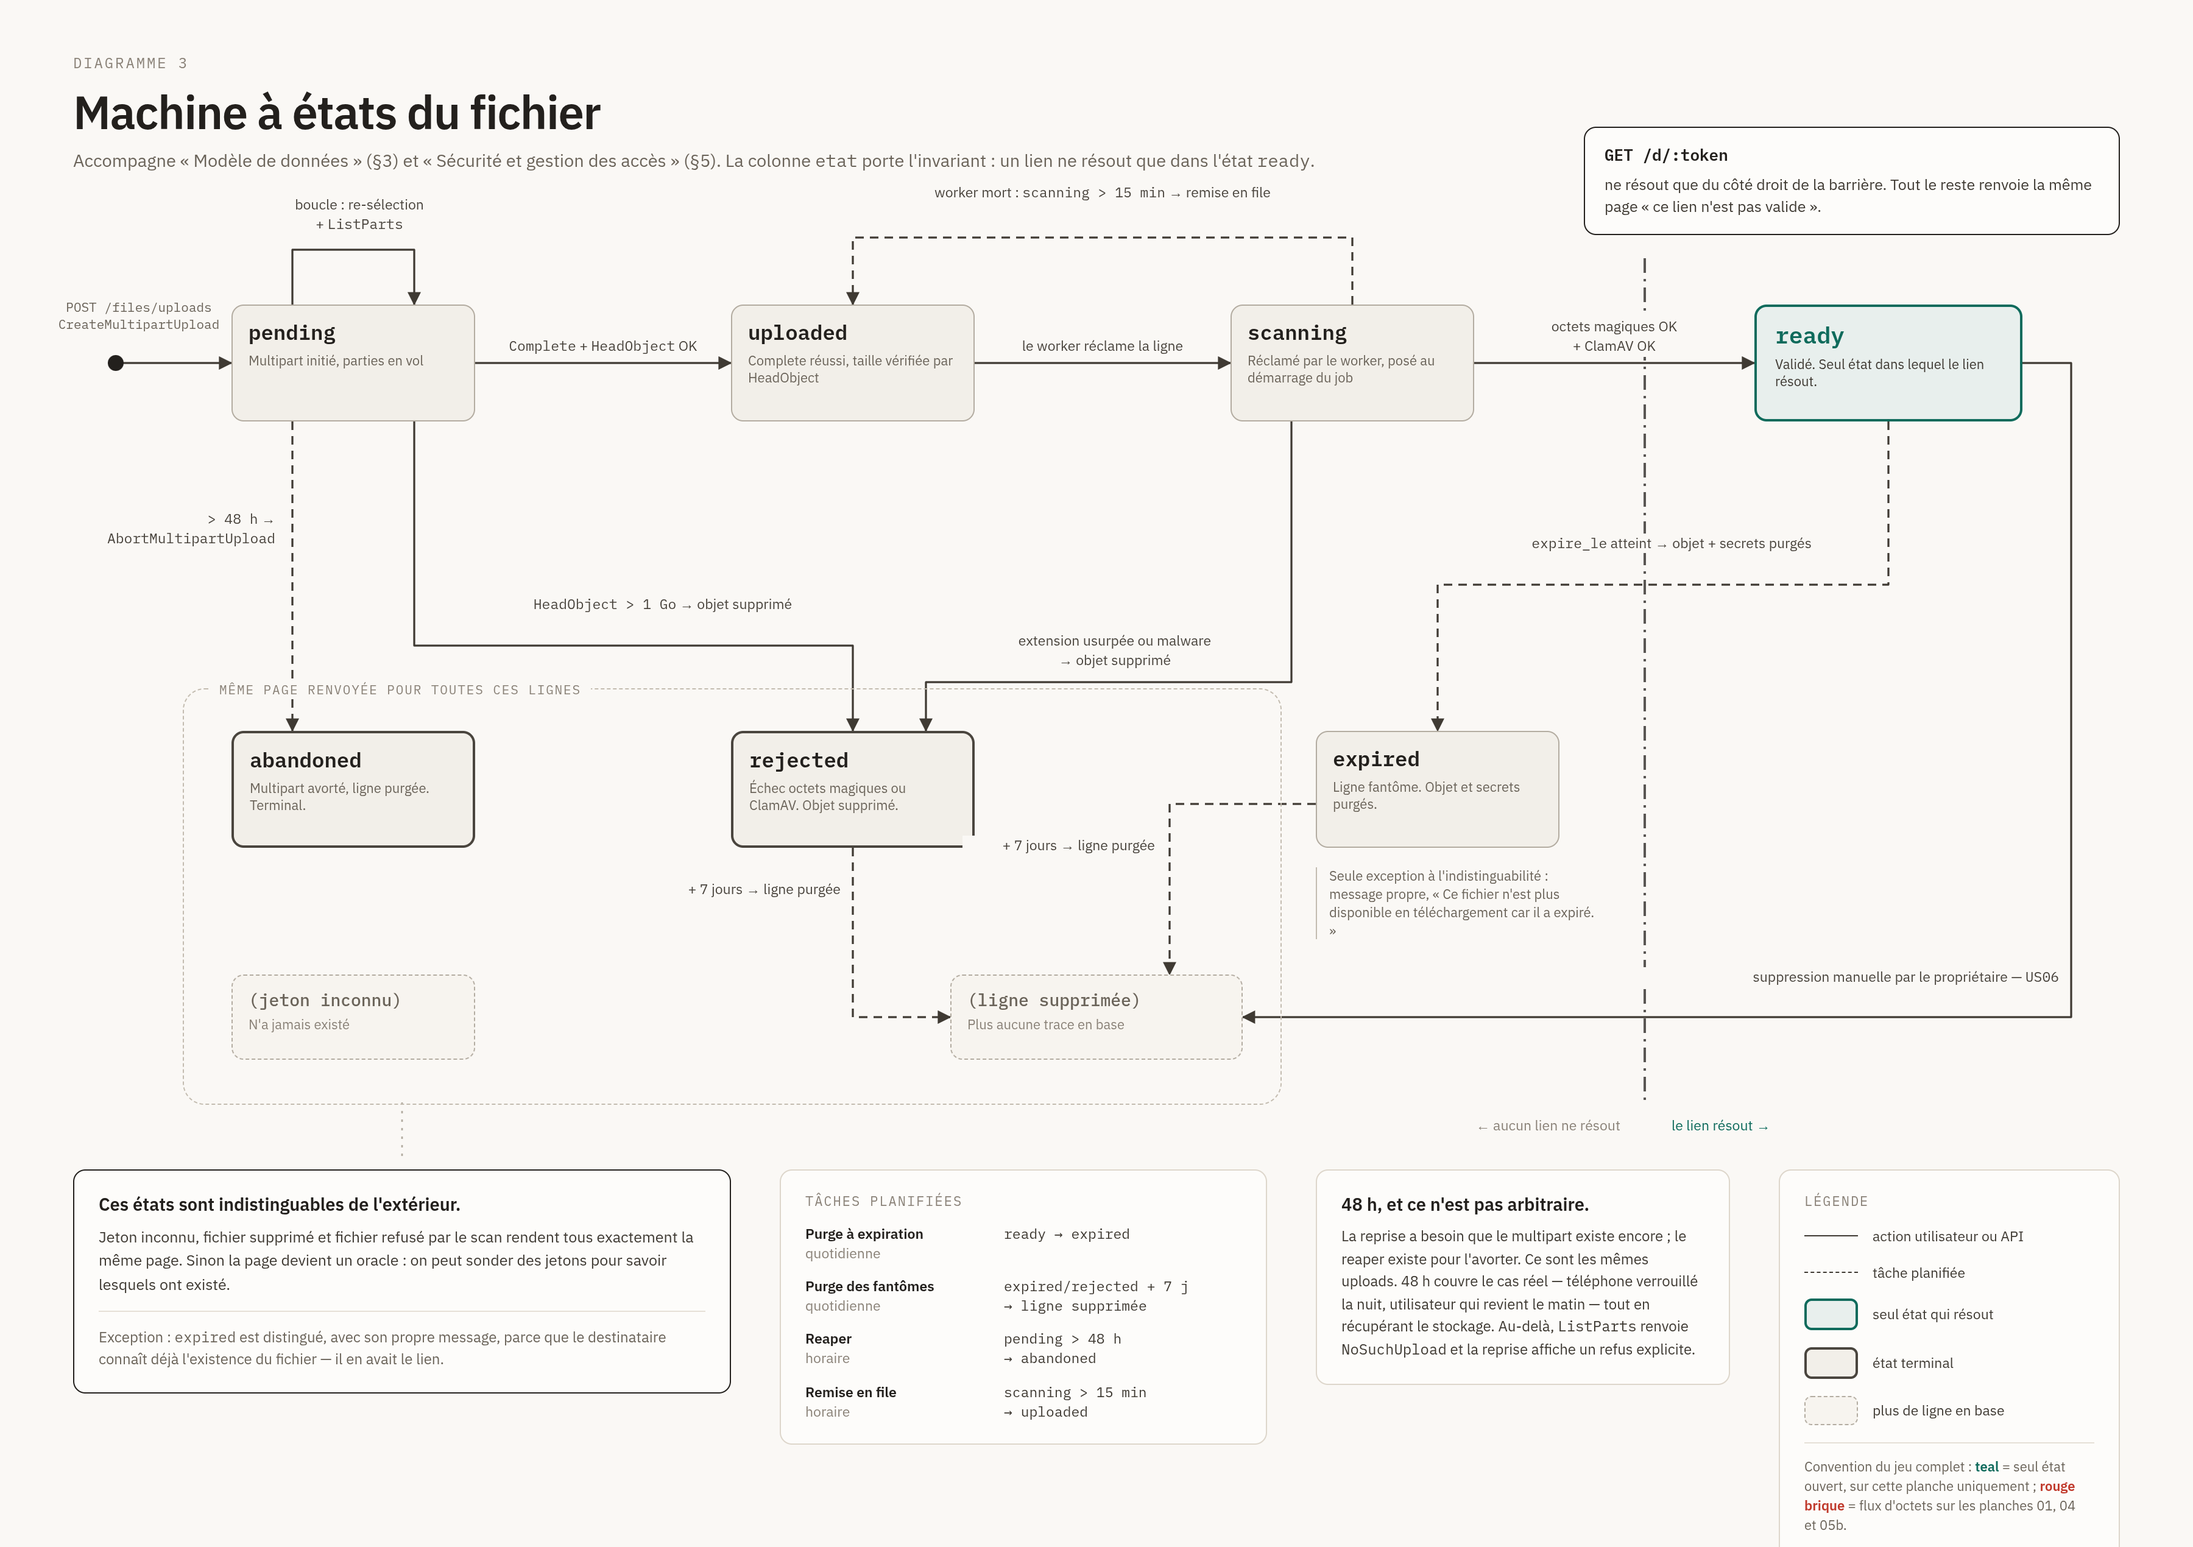
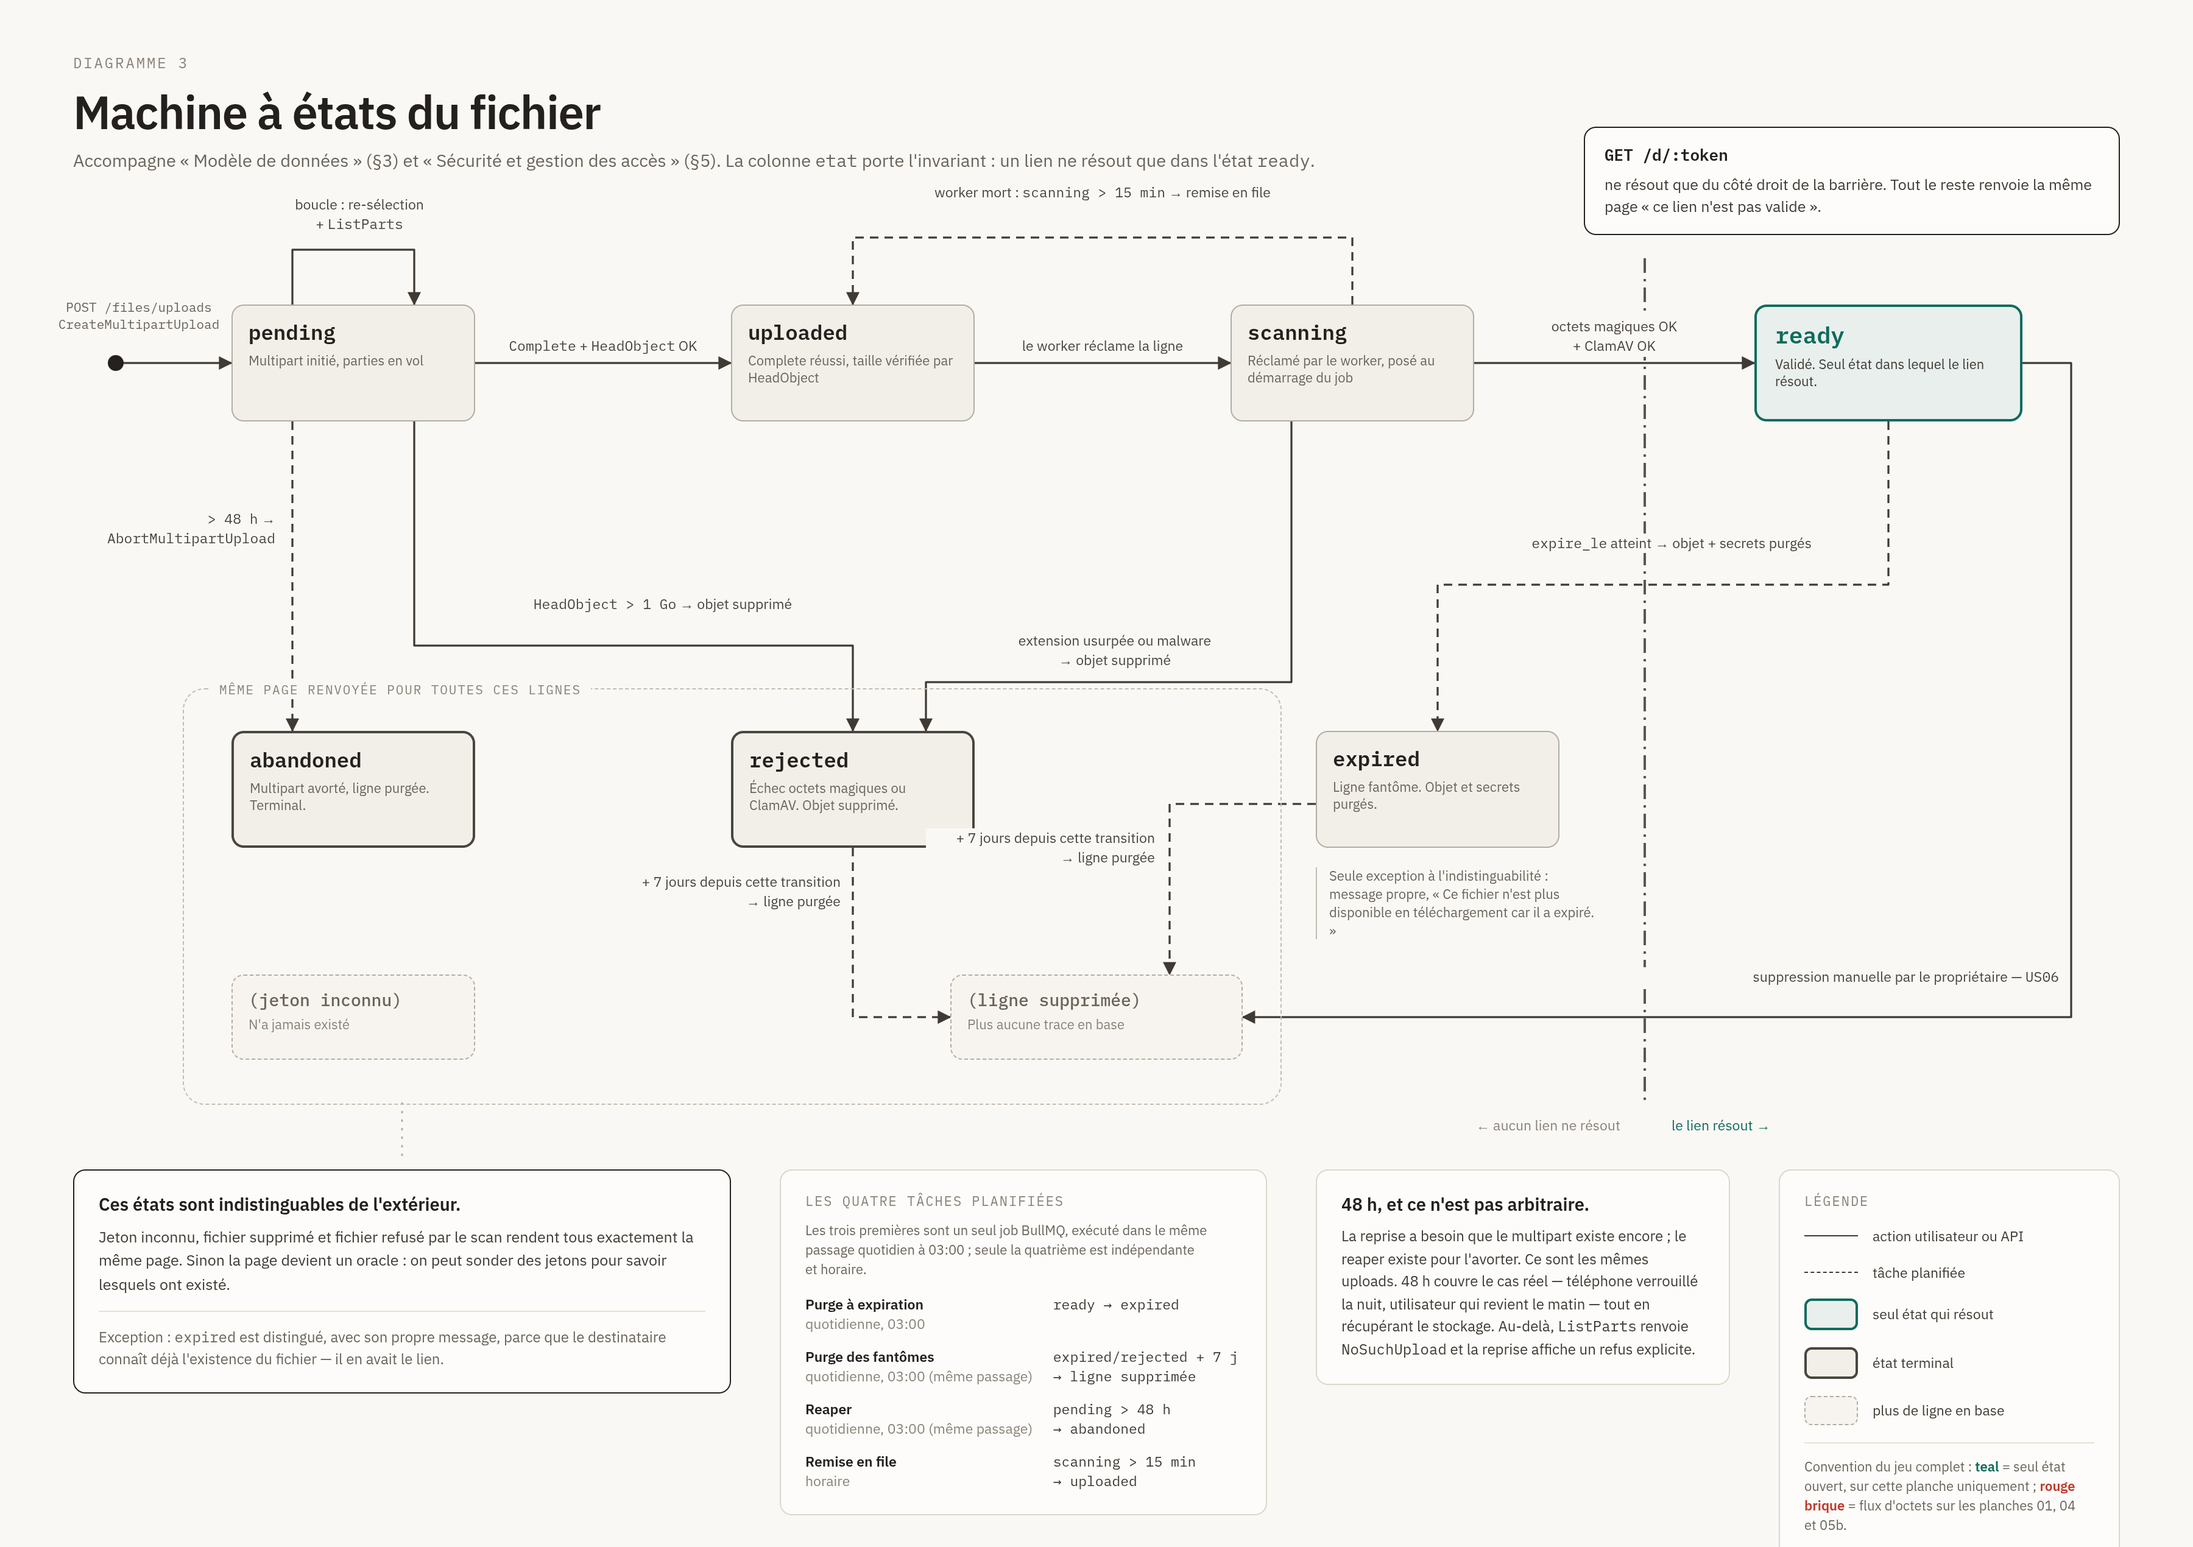
docs: update architecture diagrams following the security review
- Diagram 1: nginx no longer claims load balancing (it proxies to a single
  upstream, HAProxy); HAProxy's subtitle gains "résolveur DNS à chaud" to
  explain why two proxies exist in series.
- Diagram 2 (MCD): adds the mis_a_jour_le attribute to FICHIER, missing even
  though it was already indexed; fixes the index box, which had the ghost-row
  purge attributed to the wrong index and hid that (etat, mis_a_jour_le)
  serves two independent sweeps at two frequencies, not one.
- Diagram 3: the two "+7 jours -> ligne purgée" transitions now say "depuis
  cette transition" — the retention window is measured from the last state
  change, not from expire_le.
- Diagram 5b: adds the conditional Redis increment on the POST branch
  (INCR throttle:{jeton}:password, only when motDePasseRequis), matching the
  new DownloadThrottlerGuard behavior.
- Diagram 6 (new): front-end architecture — component tree, state, routing,
  IndexedDB persistence — previously undocumented visually.

diff --git a/docs/diagrams/06-architecture-frontend.md b/docs/diagrams/06-architecture-frontend.md
@@ -1,0 +1,76 @@
+# Diagramme 6 — Architecture front-end
+
+**Livrable** : accompagne « Architecture de l'application » (section 1), sous-section « Architecture front-end ».
+**Pourquoi ce diagramme existe** : le dossier technique décrit l'architecture back-end en détail mais ne montrait jusqu'ici rien du front. Ce schéma comble le trou : arbre de composants réel, où vit l'état, et le seul mécanisme de persistance côté client (IndexedDB pour la reprise d'upload).
+
+**Notation** : boîtes et flux, comme le diagramme 1. Portrait.
+
+---
+
+## Ce qu'il faut dessiner
+
+### Trois zones verticales, de haut en bas
+
+**Zone 1 — Racine**
+- `App.tsx` — sous-titre « routage minimal · état d'authentification ». Un seul nœud en haut, qui distribue vers les zones 2 et 3.
+
+**Zone 2 — Vues basculées par état (à `/`)**, cadre englobant quatre nœuds côte à côte :
+- `LoginForm` / `RegisterForm` — sous-titre « formulaires, basculent entre eux »
+- `Uploader` — sous-titre « sélection, envoi multipart, reprise » — **le nœud le plus large du schéma**, c'est le composant le plus lourd du front
+- `MonEspace` — sous-titre « historique, filtre Tous / Actifs / Expiré »
+
+**Zone 3 — Route dédiée (hors du cadre de la zone 2)**
+- `RecipientPage` — sous-titre « `/d/:token` · non authentifiée · 8 états d'affichage » — seule vraie route de l'application, à dessiner clairement séparée des vues basculées
+
+**Sous les zones 2 et 3, deux nœuds de support :**
+- `IndexedDB` (`datashare-resume`) — sous-titre « magasin `pending-uploads`, clé `fileId` · métadonnées seulement, jamais les octets »
+- `API` (`lib/api.ts`) — sous-titre « wrapper `fetch`, JWT en en-tête `Authorization` »
+
+### Les liens à tracer, avec leurs étiquettes exactes
+
+| De | Vers | Étiquette | Style |
+|---|---|---|---|
+| App.tsx | LoginForm / RegisterForm / Uploader / MonEspace | `bascule par état` | trait fin |
+| App.tsx | RecipientPage | `route /d/:token` | trait fin |
+| Uploader | IndexedDB | `écrit à l'initiation, avant le 1er octet envoyé` | trait fin |
+| Uploader | IndexedDB | `supprime à la complétion / annulation / échec` | trait fin, pointillés |
+| Uploader | API | `parties séquentielles, 1 à la fois — 3 tentatives, backoff 500ms/1,5s/3s` | trait fin |
+| Uploader | API | `poll statut scan — 1,5 s, ~3 min max` | trait fin |
+| MonEspace | API | `GET /files` | trait fin |
+| RecipientPage | API | `poll GET /d/:token — 2 s puis 5 s après 30 s, abandon à 2 min` | trait fin |
+| LoginForm / RegisterForm | API | `POST /auth/*` | trait fin |
+
+### Annotation encadrée, sous la zone 2
+
+> **Pas de bibliothèque de gestion d'état.** `useState` local et passage de props partout. L'état d'un envoi en cours (`idle` → `configuring` → `uploading` → `verifying` → `scanning` → `done`, plus `cancelled`/`error`) vit entièrement dans `Uploader`, rien n'est partagé au-delà de ce composant sinon via IndexedDB.
+
+### Annotation encadrée, sous IndexedDB
+
+> **IndexedDB ne stocke jamais les octets du fichier ni les `ETag` des parties déjà envoyées.** Uniquement de quoi retrouver un envoi (nom, taille, date de modification, type). Les parties déjà envoyées sont re-demandées à l'API (`GET /files/uploads/:id/parts`) au moment de la reprise, pas relues depuis le disque local.
+
+---
+
+## Légende obligatoire
+
+```
+──────  appel réseau vers l'API
+- - - -  écriture/suppression locale (IndexedDB)
+▭▭▭     zone de vues basculées par état (pas des routes)
+```
+
+---
+
+## Contraintes de style
+
+- Même famille visuelle que le diagramme 1 : rectangles étiquetés, une seule couleur d'accent réservée au nœud `Uploader` (c'est le composant central de ce schéma), tout le reste en niveaux de gris.
+- Typographie : DM Sans pour les titres de nœuds, Inter pour les sous-titres.
+- Portrait, lisible en A4 dans un PDF, lisible en noir et blanc si imprimé.
+- Pas de logos de technologies, pas de dégradés, pas d'ombres décoratives, pas d'icônes rondes colorées.
+- Chaque nœud porte un sous-titre d'une ligne.
+
+## Pièges à éviter
+
+- Ne pas dessiner `LoginForm`, `RegisterForm`, `Uploader`, `MonEspace` comme des routes séparées : ce sont des vues basculées par état à la racine `/`, une seule vraie route existe (`RecipientPage`, `/d/:token`). Le mélange serait un contresens sur l'architecture réelle.
+- Ne pas laisser croire à un état global : il n'y en a pas. Ne pas dessiner de nœud « store » ou « contexte global ».
+- Ne pas dessiner IndexedDB comme s'il stockait le fichier lui-même — seulement ses métadonnées.
+- Ne pas répéter le diagramme 4 (séquence de téléversement) : celui-ci montre la structure des composants, pas la chronologie des appels. S'ils se recoupent sur `Uploader` → API, rester au niveau structurel ici.

diff --git a/docs/diagrams/02-mcd-modele-donnees.md b/docs/diagrams/02-mcd-modele-donnees.md
@@ -37,6 +37,7 @@
 | `afficher_expediteur` | BOOLEAN | non nul, défaut `false` |
 | `tags` | TEXT[] | tableau, 0..N, 30 caractères max par tag |
 | `cree_le` | TIMESTAMPTZ | non nul |
+| `mis_a_jour_le` | TIMESTAMPTZ | non nul, mis à jour à chaque transition d'état |
 
 ---
 
@@ -70,13 +71,15 @@ Trois annotations, chacune reliée par un trait fin à l'élément concerné :
 Sous l'entité `FICHIER`, un encadré « Index » :
 
 ```
-(etat, expire_le)   → purge à expiration + purge des lignes fantômes
-(etat, cree_le)     → reaper des uploads abandonnés (fenêtre 48 h)
-jeton_telechargement → unique, accès destinataire
-proprietaire_id      → liste « Mon espace »
+(etat, expire_le)     → purge à expiration (ready → expired) (quotidien, 03:00)
+(etat, cree_le)       → reaper des uploads abandonnés, fenêtre 48 h (quotidien, 03:00, même passage)
+(etat, mis_a_jour_le) → purge des lignes fantômes, fenêtre 7 j (quotidien, 03:00, même passage)
+                         ET remise en file des scans bloqués, fenêtre 15 min (horaire)
+jeton_telechargement  → unique, accès destinataire
+proprietaire_id       → liste « Mon espace »
 ```
 
-Ces trois tâches planifiées balaient la table quotidiennement. Sans index, chacune fait un parcours complet.
+`(etat, mis_a_jour_le)` sert deux tâches à deux fréquences différentes, pas une seule : la purge des lignes fantômes (`expired`/`rejected`) mesure les 7 jours depuis la dernière transition d'état de la ligne, pas depuis `expire_le` : `expire_le` ne veut rien dire pour une ligne `rejected`, qui n'a jamais expiré, elle a été refusée. C'est pour ça que cette purge lit `mis_a_jour_le`, pas `expire_le`. Sans ces index, chaque balayage ferait un parcours complet de table.
 
 ---
 
@@ -124,8 +127,8 @@ types Prisma. Ces six points l'ont été, et chacun se défend :
    impossible. **Ne jamais utiliser d'UUID comme jeton** (voir point 4).
 
 4. **Identifiants en UUID v7** (`@default(uuid(7))`), pour la localité d'index :
-   trois tâches planifiées balaient cette table quotidiennement et des insertions
-   ordonnées valent mieux qu'une dispersion aléatoire. Attention au contresens :
+   quatre tâches planifiées balaient cette table (trois quotidiennes, une horaire)
+   et des insertions ordonnées valent mieux qu'une dispersion aléatoire. Attention au contresens :
    v7 est **moins** imprévisible que v4 — il embarque un horodatage à la
    milliseconde et ne porte qu'environ 74 bits aléatoires contre 122. Acceptable
    pour une clé primaire, jamais pour un secret.

diff --git a/docs/diagrams/03-machine-etats-fichier.md b/docs/diagrams/03-machine-etats-fichier.md
@@ -38,8 +38,8 @@ C'est aussi le diagramme à montrer pendant la soutenance quand l'évaluateur de
 | `scanning` | `uploaded` | worker mort | `> 15 min → remise en file` |
 | `ready` | `expired` | tâche planifiée | `expire_le atteint → objet + secrets purgés` |
 | `ready` | *(supprimé)* | US06 | `suppression manuelle par le propriétaire` |
-| `expired` | *(supprimé)* | tâche planifiée | `+ 7 jours → ligne purgée` |
-| `rejected` | *(supprimé)* | tâche planifiée | `+ 7 jours → ligne purgée` |
+| `expired` | *(supprimé)* | tâche planifiée | `+ 7 jours depuis cette transition → ligne purgée` |
+| `rejected` | *(supprimé)* | tâche planifiée | `+ 7 jours depuis cette transition → ligne purgée` |
 
 ---
 
@@ -59,15 +59,15 @@ Encadré relié à `rejected`, `abandoned` et `expired` (et au cas « jeton inco
 
 Exception : `expired` **est** distingué, avec son propre message (« Ce fichier n'est plus disponible en téléchargement car il a expiré. »), parce que le destinataire connaît déjà l'existence du fichier — il en avait le lien.
 
-### Les trois tâches planifiées
+### Les quatre tâches planifiées
 
-Un encadré latéral listant qui déclenche quoi :
+Un encadré latéral listant qui déclenche quoi. Les trois premières sont un seul job BullMQ, exécuté dans le même passage quotidien à 03:00 (`PurgeService.runDailySweep`) ; seule la quatrième est indépendante et horaire :
 
 ```
-Purge à expiration      quotidienne   ready → expired
-Purge des fantômes      quotidienne   expired/rejected + 7 j → ligne supprimée
-Reaper                  horaire       pending > 48 h → abandoned
-Remise en file          horaire       scanning > 15 min → uploaded
+Purge à expiration      quotidienne, 03:00   ready → expired
+Purge des fantômes      quotidienne, 03:00 (même passage)   expired/rejected + 7 j → ligne supprimée
+Reaper                  quotidienne, 03:00 (même passage)   pending > 48 h → abandoned
+Remise en file          horaire   scanning > 15 min → uploaded
 ```
 
 ### La fenêtre de 48 h

diff --git a/docs/diagrams/README.md b/docs/diagrams/README.md
@@ -9,8 +9,9 @@ Un fichier par diagramme. Chaque fichier est une **spécification complète** : 
 | 3 | `03-machine-etats-fichier.md` | 3 + 5 | Machine à états | Paysage |
 | 4 | `04-sequence-televersement.md` | 1 + 4 | Séquence UML | Paysage |
 | 5 | `05-sequence-validation-telechargement.md` | 5 — Sécurité | Séquence UML | Paysage |
+| 6 | `06-architecture-frontend.md` | 1 — Architecture front-end | Boîtes et flux | Portrait |
 
-Les diagrammes 1, 2 et 4 sont exigés explicitement par l'étape 1 de la mission (schéma d'architecture, schéma de BDD de type MCD, contrat d'interface). Les diagrammes 3 et 5 ne sont pas demandés : ils existent parce qu'ils portent les réponses aux deux questions les plus probables de la soutenance, et parce que la machine à états est le centre du modèle de données.
+Les diagrammes 1, 2 et 4 sont exigés explicitement par l'étape 1 de la mission (schéma d'architecture, schéma de BDD de type MCD, contrat d'interface). Les diagrammes 3, 5 et 6 ne sont pas demandés : 3 et 5 existent parce qu'ils portent les réponses aux deux questions les plus probables de la soutenance, et parce que la machine à états est le centre du modèle de données ; 6 comble un trou signalé lors d'une relecture (le dossier ne montrait rien du front).
 
 ## Ordre de production recommandé
 

diff --git a/docs/diagrams/01-architecture-logicielle.md b/docs/diagrams/01-architecture-logicielle.md
@@ -15,8 +15,8 @@
 **Zone 2 — Périmètre Docker** (cadre en pointillés englobant tout le reste, étiqueté « docker compose »)
 
 Rangée 2a, entrée :
-- `nginx` — sous-titre « reverse proxy · sert le build React · load balancing `upstream` »
-- `HAProxy` — sous-titre « répartition L4 vers N réplicas API » — placé **à droite de nginx**, en gris plus clair, avec la mention « mesure de charge (PERF.md) »
+- `nginx` — sous-titre « reverse proxy · sert le build React · TLS », pas de mention de load balancing : nginx proxifie `/api` vers un unique upstream (HAProxy), il ne répartit rien lui-même. Ses upstreams sont résolus **au démarrage** et mis en cache, ce qui suffit puisqu'il ne pointe jamais que vers HAProxy, une cible qui ne change pas de topologie en cours de session.
+- `HAProxy` — sous-titre « répartition L4 vers N réplicas API · résolveur DNS à chaud », placé **à droite de nginx**, en gris plus clair. C'est HAProxy, pas nginx, qui répartit sur les réplicas de l'API et suit `make scale` sans redémarrage : deux répartiteurs en série, pas un doublon.
 
 Rangée 2b, application :
 - `API NestJS ×3` — dessiner comme **trois rectangles superposés décalés** (effet de pile) pour montrer les réplicas. Sous-titre « REST · JWT · @nestjs/swagger »
